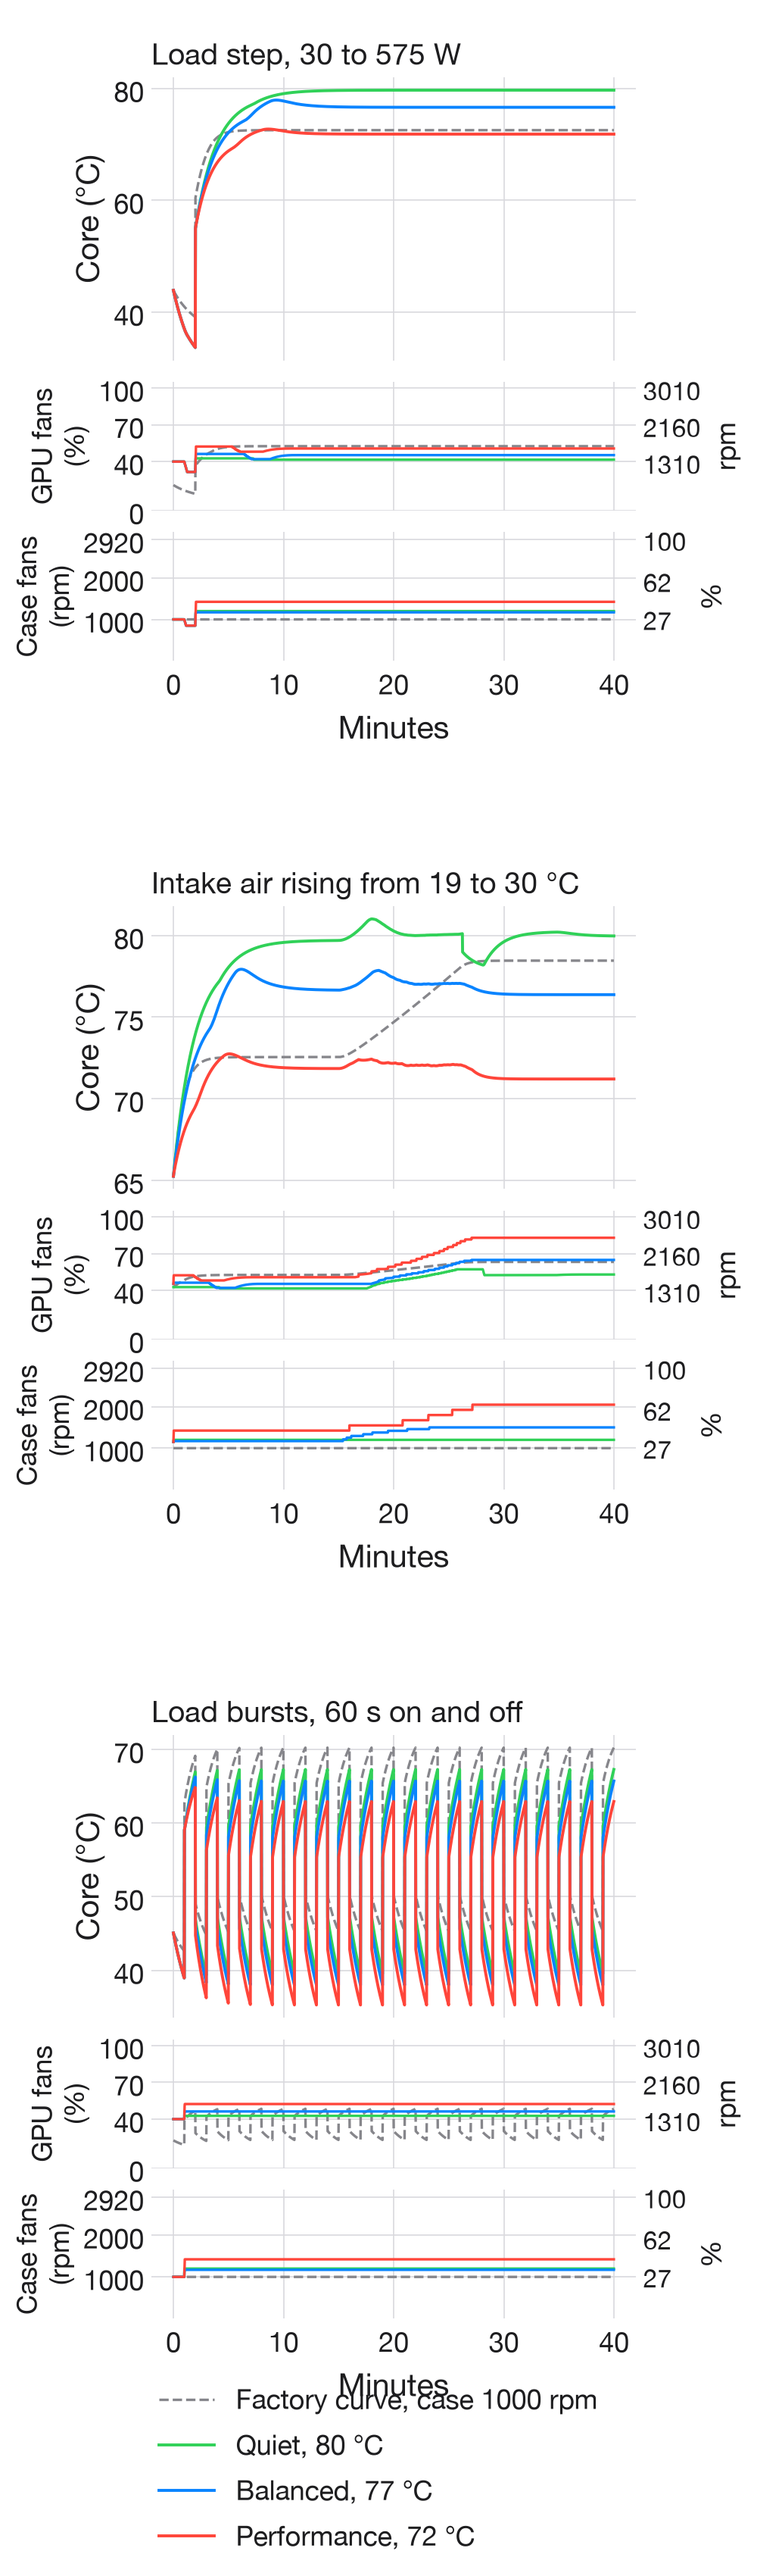
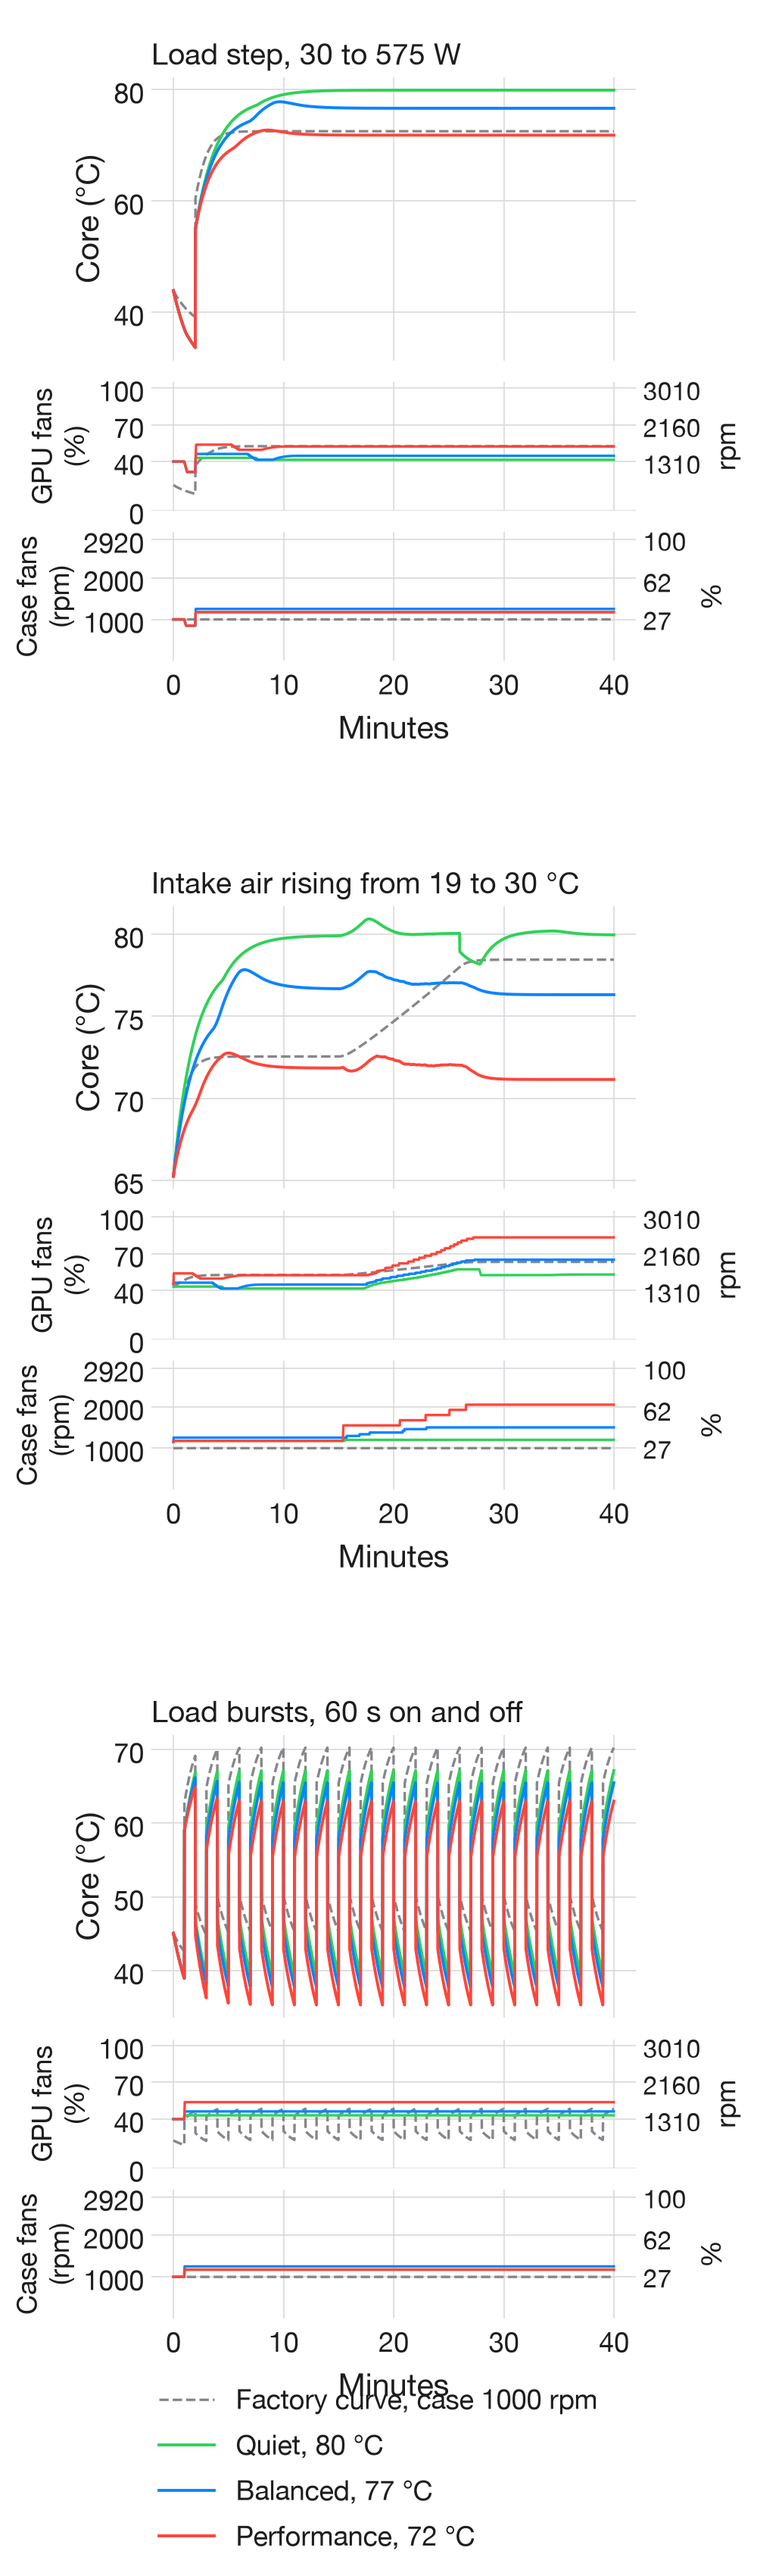
Controller margin = max(2 × LOO, 1.0 °C), re-simulated

diff --git a/scripts/controller_sim.py b/scripts/controller_sim.py
@@ -28,7 +28,7 @@ CORE = M["M2-pow"]["params"]; MEM = M["mem"]["params"]
 # n = N/1000, c = C/1500; margin = 2 × leave-one-out RMSE of that model (≈ 95 %). The dynamic model is only the simulated plant.
 SS = json.load(open(os.path.join(HERE, "results-2026-10-22", "steady-stats.json")))
 SP = {d["param"]: d["est"] for d in SS["params"]}
-SS_MARGIN = 2 * float(SS["loo"])
+SS_MARGIN = max(2 * float(SS["loo"]), 1.0)   # rule (2026-10-22): never below 1.0 °C — safety over extra quietness
 
 DUTY_RPM = lambda d: 180 + 28.33 * d            # RTX 5090 FE: fan duty % -> rpm (ws298 measurement)
 RPM_DUTY = lambda r: (r - 180) / 28.33
@@ -41,6 +41,7 @@ MODES = {   # target core °C, card / case noise ceilings (rpm), may lower the p
     "performance": dict(target=72.0, card_max=CARD_MAX, case_max=CASE_MAX, pl_cut=False),
 }
 MEM_MAX, MEM_MARGIN = 100.0, 4.0
+TIN_TAU, FF_HYST_DB, UP_DEADBAND, DOWN_DEADBAND, HOLD_AFTER_UP = 60.0, 0.5, 0.0, 50.0, 60.0   # ctrl2 anti-pumping (2026-10-22)
 
 
 # ---------------------------------------------------------------- plant
@@ -92,6 +93,7 @@ class Controller:
         self.m = MODES[mode]; self.mode = mode; self.Pst = P_stock
         self.N = DUTY_RPM(40); self.C = 1000.0; self.pl = 1.0
         self.i = 0.0; self.p_s = None; self.ff = (self.N, self.C, 1.0); self.cool_since = None; self.t = 0; self.p_last = 0.0; self.p_at = 0; self.pl_at = -999
+        self.tin_f = None; self.up_at = {"N": -999, "C": -999}   # ctrl2: filtered intake for the feedforward, time of last up-ramp per fan group
 
     def feedforward(self, P, Tin):
         tgt = self.m["target"] - SS_MARGIN; best = None
@@ -109,12 +111,22 @@ class Controller:
             if core <= tgt and mem <= MEM_MAX - MEM_MARGIN: return self.m["card_max"], self.m["case_max"], pl
         return self.m["card_max"], self.m["case_max"], 0.70
 
+    def keep_ff(self, new):
+        """ctrl2 hysteresis: keep the current (N, C) while it still meets the targets and the new optimum is not clearly quieter (ties flipped case 1174 ↔ 1548 rpm on ws298)."""
+        N, C, pl = self.ff
+        if new[2] != 1.0 or pl != 1.0 or N < card_min(self.p_s, self.Pst) or N > self.m["card_max"] or C > self.m["case_max"]: return new
+        core, mem = steady_ff(self.p_s, N, C, self.tin_f)
+        if core <= self.m["target"] - SS_MARGIN and mem <= MEM_MAX - MEM_MARGIN and noise(new[0], new[1]) > noise(N, C) - FF_HYST_DB: return self.ff
+        return new
+
     def step(self, core, mem, P_meas, Tin, dt=1.0):
         self.t += dt
         dem = P_meas / self.pl if P_meas >= 0.97 * self.pl * self.Pst else P_meas   # demand: a capped card would draw more without the cap
         if self.p_s is None or dem >= self.p_s: self.p_s, self.p_at = dem, self.t           # load estimate: up at once,
+        elif dem >= 0.97 * self.p_s: self.p_at = self.t                                       # ctrl2: a near-peak burst renews the hold
         elif self.t - self.p_at > 300: self.p_s += (dem - self.p_s) * dt / 60                  # held 5 min, then down slowly (no pumping on bursty loads)
-        if self.t % 5 < dt or P_meas > self.p_last + 100: self.ff = self.feedforward(self.p_s, Tin)   # load step: recompute now
+        self.tin_f = Tin if self.tin_f is None else self.tin_f + (Tin - self.tin_f) * dt / TIN_TAU   # ctrl2: intake low-pass (sensor noise flipped the optimum)
+        if self.t % 5 < dt or P_meas > self.p_last + 100: self.ff = self.keep_ff(self.feedforward(self.p_s, self.tin_f))   # load step: recompute now
         self.p_last = P_meas
         Nff, Cff, pl_t = self.ff
         e = core - self.m["target"]
@@ -129,8 +141,8 @@ class Controller:
         may_drop = self.cool_since is not None and self.t - self.cool_since >= 60
         for attr, want in (("N", Nw), ("C", Cw)):
             cur = getattr(self, attr)
-            if want > cur: cur = min(want, cur + 150 * dt)
-            elif may_drop: cur = max(want, cur - 15 * dt)
+            if want > cur + UP_DEADBAND: cur = min(want, cur + 150 * dt); self.up_at[attr] = self.t
+            elif want < cur - DOWN_DEADBAND and may_drop and self.t - self.up_at[attr] >= HOLD_AFTER_UP: cur = max(want, cur - 15 * dt)   # ctrl2: down only past a deadband and ≥ 60 s after the last rise
             setattr(self, attr, cur)
         # power limit: down in 5 % steps at most every 30 s and never below what the model needs; back up at once when the core is below target − 1.5 °C
         if pl_t < self.pl - 1e-6 and self.t - self.pl_at >= 30: self.pl = max(pl_t, self.pl - 0.05); self.pl_at = self.t
